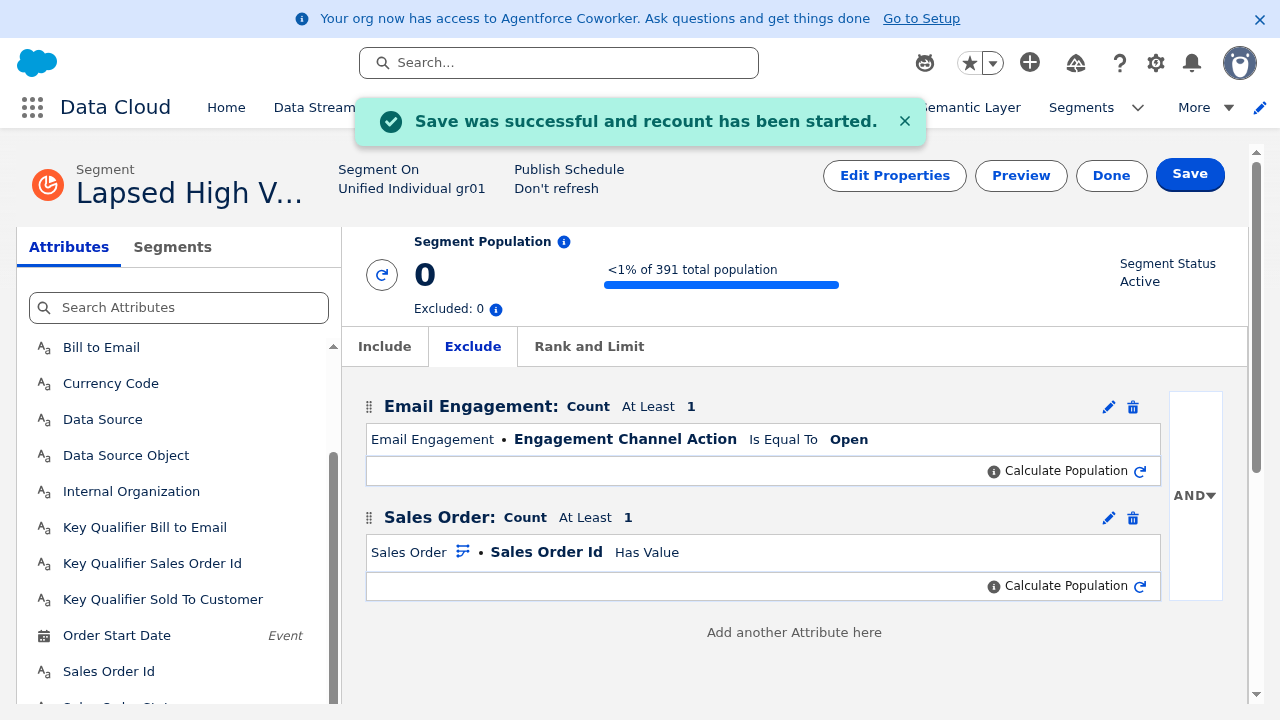
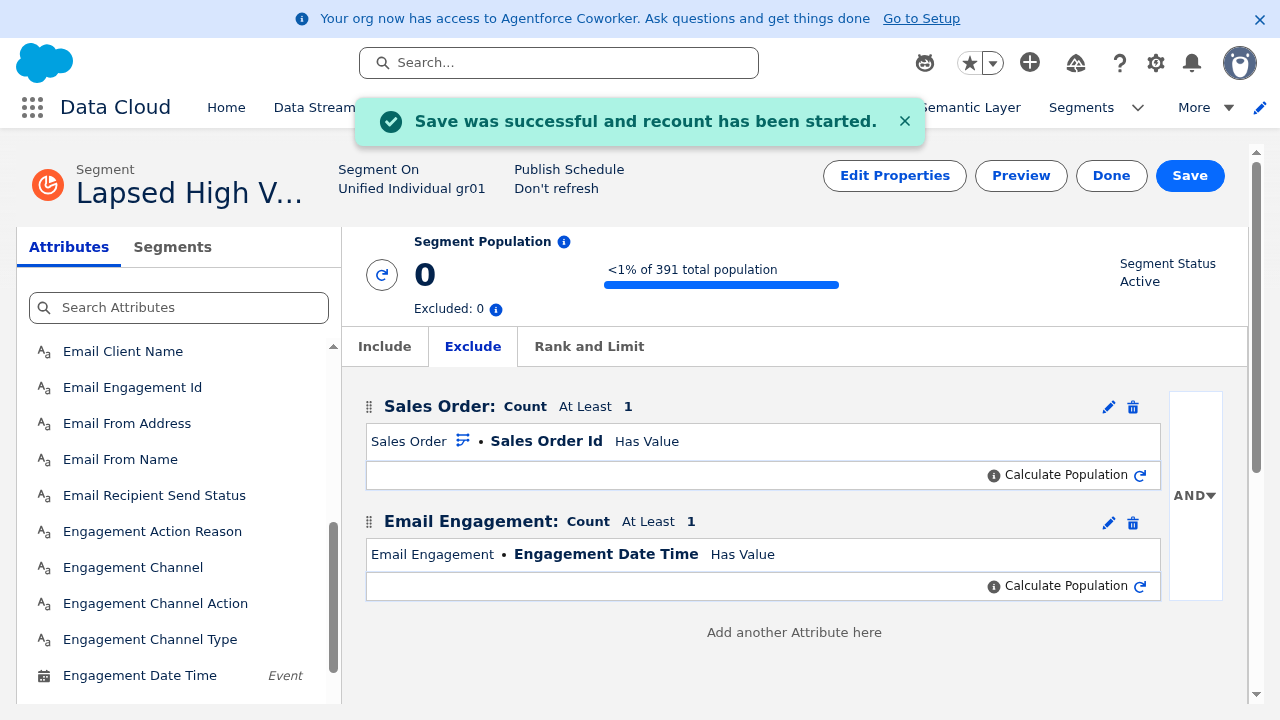
Update Exclude Filter 1 to use Engagement Date Time (Has Value)
Replace Engagement Channel Action = Open with Engagement Date Time / Has Value
operator for simpler lab experience — no manual value entry needed.

diff --git a/public/index.html b/public/index.html
@@ -720,20 +720,19 @@ hEc2jX+/Ku/nmWfzIjDF
         <div class="border-l-4 border-sf-blue-light pl-5 space-y-3">
           <div class="flex items-center gap-2">
             <span class="bg-sf-blue-light text-white text-xs font-bold w-6 h-6 rounded-full flex items-center justify-center">4</span>
-            <h3 class="font-bold">Exclude Filter 1 — Email Opens</h3>
+            <h3 class="font-bold">Exclude Filter 1 — Email Engagement</h3>
           </div>
           <p class="text-sm text-sf-gray-600">Now switch to the <strong>Exclude</strong> tab in the segment builder. This is where we define who to remove from the segment.</p>
-          <p class="text-sm text-sf-gray-600 mt-2">In the left panel, navigate to <strong>Related Data Model Objects</strong> and click <strong>Email Engagement</strong>. Find <strong>Engagement Channel Action</strong> (type: TEXT) and click it, then press <strong>Enter</strong> to add it to the Exclude canvas.</p>
+          <p class="text-sm text-sf-gray-600 mt-2">In the left panel, navigate to <strong>Related Data Model Objects</strong> and click <strong>Email Engagement</strong>. Find <strong>Engagement Date Time</strong> (type: DATE, labeled "Event") and click it, then press <strong>Enter</strong> to add it to the Exclude canvas.</p>
           <p class="text-sm text-sf-gray-600 mt-2">Configure the filter card:</p>
           <ul class="text-sm text-sf-gray-600 list-disc pl-5 space-y-1">
             <li><strong>Container Object</strong>: Email Engagement (auto-filled)</li>
             <li><strong>Measurement</strong>: Count / At Least / 1</li>
-            <li><strong>Attribute</strong>: Engagement Channel Action (auto-filled)</li>
-            <li><strong>Operator</strong>: <strong>Is Equal To</strong></li>
-            <li><strong>Value</strong>: Select <strong>Open</strong> from the dropdown</li>
+            <li><strong>Attribute</strong>: Engagement Date Time (auto-filled)</li>
+            <li><strong>Operator</strong>: Change from "Is Before" to <strong>Has Value</strong></li>
           </ul>
           <p class="text-sm text-sf-gray-600 mt-2">Click <strong>Done</strong> on the filter card.</p>
-          <p class="text-xs text-sf-gray-500 italic mt-1">This exclude filter removes anyone who <em>has</em> opened an email (within the default 90-day lookback). Think of it as: "exclude people who have at least 1 Email Engagement record where Engagement Channel Action = Open." The remaining population contains only people with zero email opens — our disengaged audience.</p>
+          <p class="text-xs text-sf-gray-500 italic mt-1">This exclude filter removes anyone who has <em>any</em> email engagement record (within the default 90-day lookback). By using the "Has Value" operator on the date field, we simply check if an engagement record exists — no need to type a specific value. The remaining population contains only people with zero email engagement — our disengaged audience.</p>
         </div>
 
         <!-- Step 5 — EXCLUDE FILTER 2 -->
@@ -753,7 +752,7 @@ hEc2jX+/Ku/nmWfzIjDF
           </ul>
           <p class="text-sm text-sf-gray-600 mt-2">Click <strong>Done</strong> on the filter card, then click <strong>Save</strong> at the top of the page. Your segment will recount and show the filtered population.</p>
           <div class="rounded-lg overflow-hidden border border-sf-gray-200 shadow-sm mt-3">
-            <img src="images/segment-exclude-filters.png" alt="Segment Exclude tab showing two filters: Email Engagement Engagement Channel Action Is Equal To Open, and Sales Order Sales Order Id Has Value" class="w-full">
+            <img src="images/segment-exclude-filters.png" alt="Segment Exclude tab showing two filters: Email Engagement Engagement Date Time Has Value, and Sales Order Sales Order Id Has Value" class="w-full">
           </div>
           <p class="text-xs text-sf-gray-500 italic mt-1">This second exclude removes anyone who placed <em>any</em> order in the last 90 days. Combined with the Include filter (orders ≥ $200 in 90 days), the final segment captures a very specific audience: people who had a high-value order at some point in the 90-day window, but whose most recent behavior shows no email engagement and no recent repeat purchase — a classic "lapsed high-value" cohort ripe for a re-engagement campaign.</p>
         </div>
